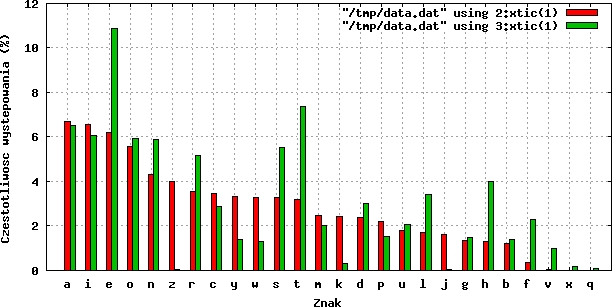
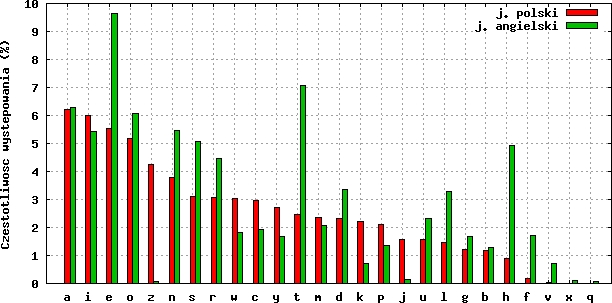
thesis: uaktualnienie wykresu frequencies

diff --git a/thesis/magisterka.tex b/thesis/magisterka.tex
@@ -559,7 +559,7 @@ Cechy statystyczne tekstów uwzględniane w funkcji przystosowania, czyli częst
 \caption{Porównanie częstotliwości występowania liter w języku polskim i angielskim}
 \end{figure}
 
-Pomimo pewnego podobieństwa, różnice są wyraźne, zwłaszcza w przypadku litery \emph{e}. Jeszcze większe różnice widoczne są w przypadku diagrafów. Dla przykładu, najpopularniejsze pary znaków w języku angielskim, czyli \emph{th} oraz \emph{he}, w języku polskim występują ponad 10 razy rzadziej. Natomiast często spotykana w języku polskim para \emph{rz} w języku angielskim nie występuje praktycznie wcale. Warto zwrócić uwgę, że para \emph{th} jest bardzo łatwa do wpisania na klawiaturze Dvoraka. Porównanie częstotliwości występowania najczęstszych diagrafów w języku polskim i angielskim przedstawiono w tabeli poniżej.\newline
+Pomimo pewnego podobieństwa, różnice są wyraźne, zwłaszcza w przypadku liter \emph{e}, \emph{z}, \emph{t} oraz \emph{h}. Jeszcze większe różnice widoczne są w przypadku diagrafów. Dla przykładu, najpopularniejsze pary znaków w języku angielskim, czyli \emph{th} oraz \emph{he}, w języku polskim występują ponad 10 razy rzadziej. Natomiast często spotykana w języku polskim para \emph{rz} w języku angielskim nie występuje praktycznie wcale. Warto zwrócić uwgę, że para \emph{th} jest bardzo łatwa do wpisania na klawiaturze Dvoraka. Porównanie częstotliwości występowania najczęstszych diagrafów w języku polskim i angielskim przedstawiono w tabeli poniżej.\newline
 
 \begin{tabular}{ c | c | c }
   diagraf & język polski & język angielski \\
